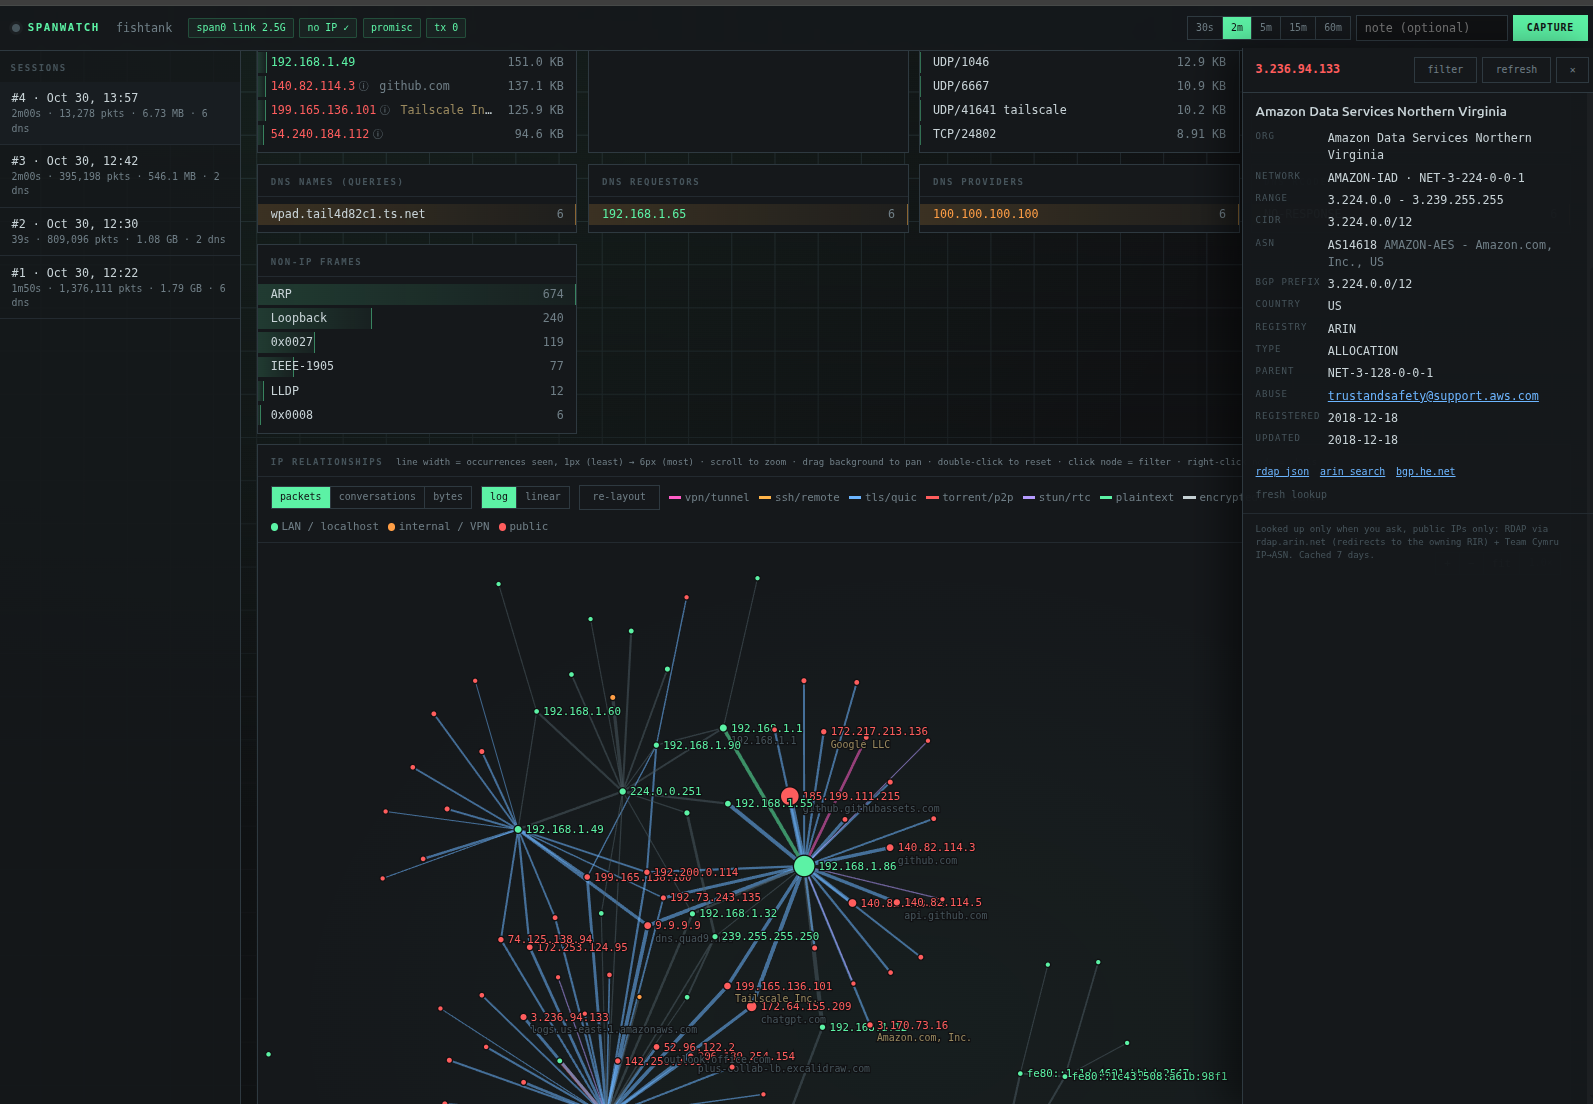
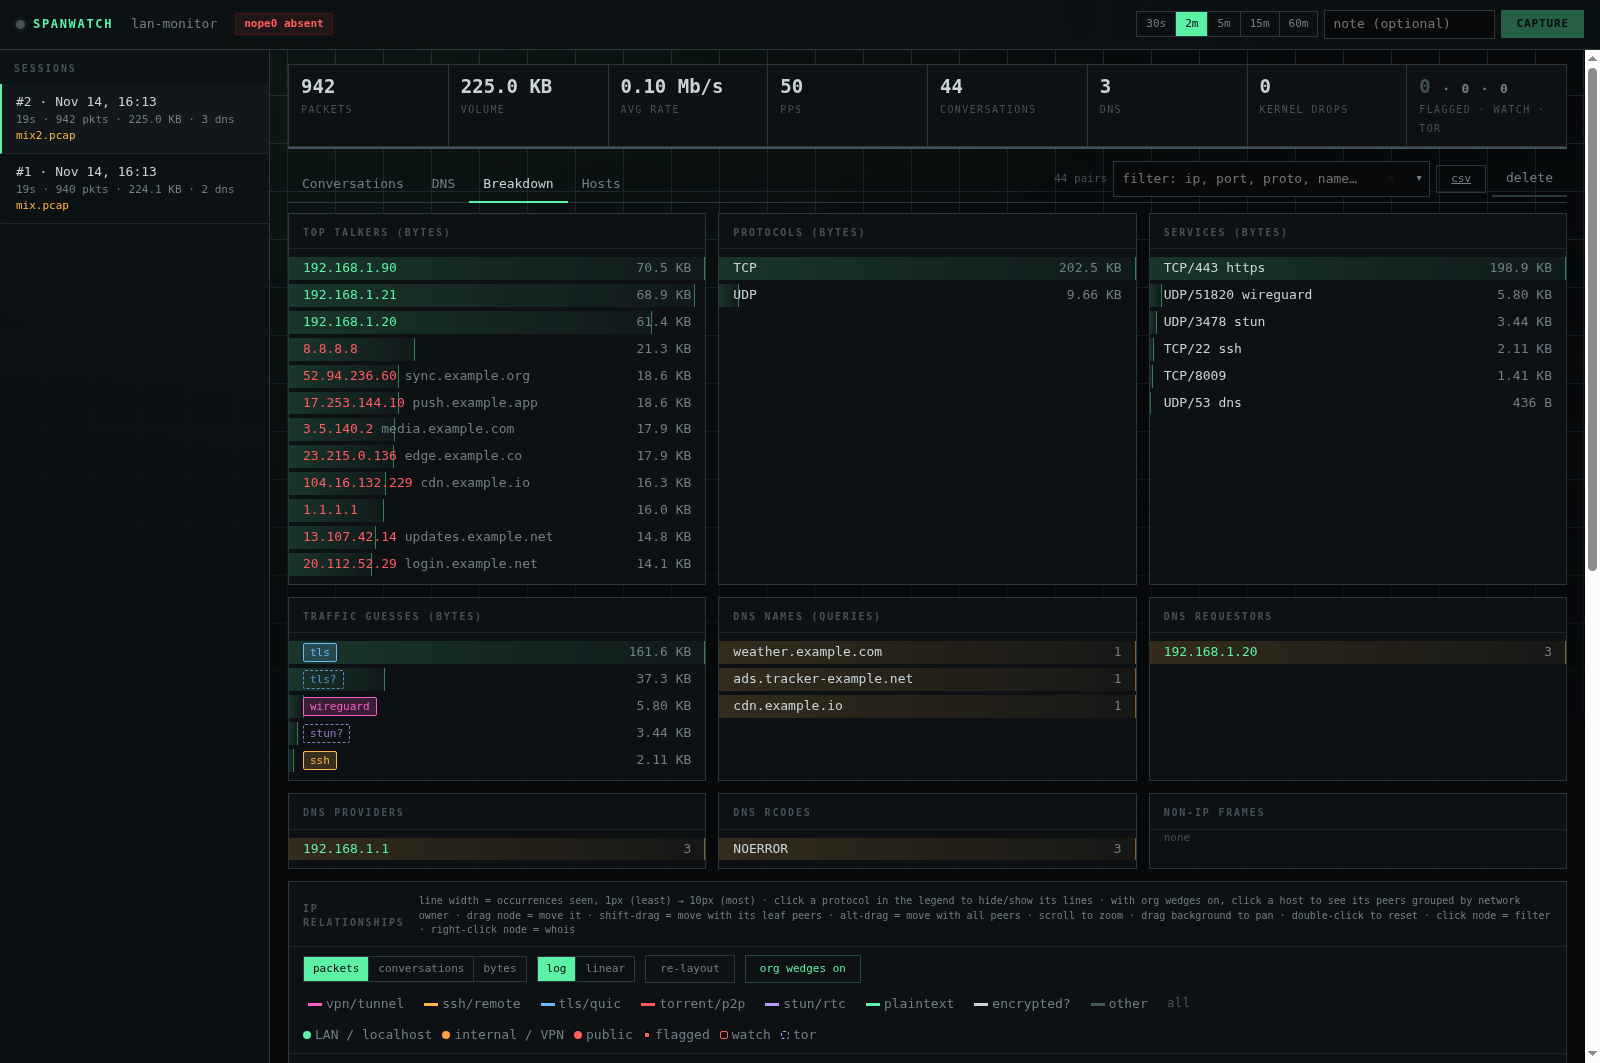
Prep for public release: README refresh, LICENSE, replace screenshot
- README: fixed stale 1-6px graph line-width text (now 10px), documented the
  legend protocol-filter toggle and org-wedges-on-click behavior inline with
  the graph bullet, added a license section.
- Added --hostname override (server.py/__main__.py): lets the dashboard
  header show a name other than the real system hostname. Used to regenerate
  docs/screenshot.png from synthetic demo data instead of a real capture, and
  useful generally for anyone who doesn't want a device nickname on screen.
- docs/screenshot.png replaced: the previous one was a real capture from this
  host (showed the real hostname and real session data/dates). New one is
  synthetic, shows the current breakdown/traffic-guess/DNS panels and the
  updated graph legend (org wedges on, 1-10px line width).
- Genericized the --allow-host example in spanwatch.env.example (was a real
  hostname).
- Added LICENSE (MIT).
- Swept the working tree and full git history for secrets/PII before making
  the repo public: no credentials, keys, real emails, or real public IPs were
  ever committed; only screenshot.png and one doc example referenced the real
  host, both fixed here. 82 tests pass (1 new: hostname override).

diff --git a/spanwatch/__main__.py b/spanwatch/__main__.py
@@ -66,6 +66,9 @@ def main(argv=None):
     sv.add_argument("--pihole-key-file", default="/etc/spanwatch/pihole.key",
                     help="Pi-hole app password file (systemd passes it as a credential)")
     sv.add_argument("--pihole-interval", type=int, default=300, help="seconds between Pi-hole polls")
+    sv.add_argument("--hostname", default=None,
+                    help="name shown in the dashboard header instead of the system hostname "
+                         "(e.g. to keep a real device nickname off a shared screenshot)")
     sv.add_argument("--no-asn", action="store_true",
                     help="disable the daily iptoasn.com download (graph org wedges, owner labels)")
     sv.add_argument("--orgs-file", default="/etc/spanwatch/orgs.json",
@@ -130,7 +133,7 @@ def main(argv=None):
     app = App(store, a.iface, _ports(a.dns_ports), a.max_duration, a.keep, a.allow_addressed,
               whois=Whois(store, enabled=not a.no_whois), lan=a.lan,
               hosts_file=a.hosts_file or None, reputation=reputation, pihole=pihole, asn=asn,
-              wan_ips=a.wan_ip)
+              wan_ips=a.wan_ip, hostname=a.hostname)
     feeds.start()
     asn.start()
     pihole.start()

diff --git a/spanwatch/server.py b/spanwatch/server.py
@@ -39,7 +39,7 @@ class ApiError(Exception):
 class App:
     def __init__(self, store, iface, dns_ports=(53,), max_duration=3600,
                  keep=50, allow_addressed=False, whois=None, lan=(), hosts_file=None,
-                 reputation=None, pihole=None, asn=None, wan_ips=()):
+                 reputation=None, pihole=None, asn=None, wan_ips=(), hostname=None):
         self.store = store
         self.iface = iface
         self.dns_ports = tuple(dns_ports)
@@ -58,6 +58,7 @@ class App:
         self.pihole = pihole or PiHole(None, enabled=False)
         self.asn = asn or AsnDB(None, enabled=False)
         self.wan_ips = set(wan_ips)
+        self.hostname = hostname
 
     # ------------------------------------------------------------ control
     def start(self, duration, note=""):
@@ -210,7 +211,7 @@ class App:
             "pihole": self.pihole.status(),
             "asn": self.asn.status(),
             "wan_ips": sorted(self.wan_ips),
-            "host": os.uname().nodename, "now": time.time(),
+            "host": self.hostname or os.uname().nodename, "now": time.time(),
         }
 
 

diff --git a/tests/test_hosts.py b/tests/test_hosts.py
@@ -195,6 +195,14 @@ class ResolveTests(unittest.TestCase):
 
 
 class StoreHttpTests(unittest.TestCase):
+    def test_hostname_override(self):
+        with tempfile.TemporaryDirectory() as d:
+            st = Store(os.path.join(d, "x.db"))
+            default_app = App(st, "definitely-not-an-iface0")
+            self.assertEqual(default_app.status()["host"], os.uname().nodename)
+            named_app = App(st, "definitely-not-an-iface0", hostname="demo-lan")
+            self.assertEqual(named_app.status()["host"], "demo-lan")
+
     def test_roundtrip(self):
         with tempfile.TemporaryDirectory() as d:
             pcap = os.path.join(d, "lan.pcap")

diff --git a/README.md b/README.md
@@ -1,6 +1,6 @@
 # spanwatch
 
-![spanwatch dashboard: breakdown, IP relationship graph, and whois quick view](docs/screenshot.png)
+![spanwatch dashboard: breakdown, traffic guesses, DNS log, and the IP relationship graph legend](docs/screenshot.png)
 
 Passive LAN traffic summarizer for a switch **SPAN / mirror port**. It runs short,
 bounded capture sessions on a dedicated, address-less sniff NIC and summarizes them
@@ -14,13 +14,16 @@ in a small local dashboard:
 - **Breakdown**: top talkers, protocols, services, traffic guesses, DNS names,
   requestors, providers, rcodes, and non-IP frames (ARP, LLDP, …).
 - **IP relationship graph** (under Breakdown): an undirected force layout of IP pairs.
-  Line width runs from 1px (seen least) to 6px (seen most). Choose packets,
+  Line width runs from 1px (seen least) to 10px (seen most). Choose packets,
   conversations, or bytes, on a log or linear scale. Line colour shows the
   traffic guess, node colour shows the address class, and node size shows volume.
+  Click a protocol in the legend to hide/show its lines (shift-click isolates
+  just that one, **all** resets); hidden choices persist in this browser.
   Hover a node to highlight its peers, click it to filter on it, or drag it.
   Scroll to zoom around the cursor (labels for every node appear at about 1.8×),
   drag the background to pan, and double-click or press **fit** to reset.
-  Line widths keep their 1–6px meaning at any zoom level.
+  Line widths keep their 1–10px meaning at any zoom level. With **org wedges**
+  on (see below), clicking a host lays its direct peers out by network owner.
 - **Local hostnames** (Hosts tab): learned passively from DHCP, mDNS, NetBIOS, LLMNR and reverse DNS; exportable as a hosts file (see below).
 - **Whois quick view**: the ⓘ next to any public IP, or right-clicking a graph node,
   opens a side panel. It shows the org, network name/handle, range/CIDR, origin
@@ -301,7 +304,9 @@ To ship code changes: `sudo deploy/install.sh update`. To remove everything:
 `sudo deploy/install.sh uninstall`, which keeps the data.
 
 Options live in `/etc/spanwatch/spanwatch.env`, for example
-`SPANWATCH_ARGS=--dns-ports 53,5353,5355 --keep 100`.
+`SPANWATCH_ARGS=--dns-ports 53,5353,5355 --keep 100`. `--hostname NAME`
+overrides what the dashboard header shows instead of the real system hostname
+(handy if you don't want a device nickname in a screenshot).
 
 ### Offline / dev
 
@@ -325,3 +330,7 @@ python3 -m spanwatch status --iface span0             # exit 0 iff present and a
   ports, packets between them are counted twice.
 - **Fragments.** Non-first IP fragments carry no ports, so they show as a portless row.
 - Session memory is capped at 250k conversations and 100k DNS records.
+
+## License
+
+[MIT](LICENSE)
